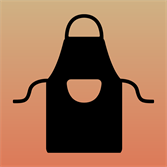
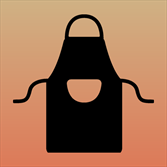
Popraw ikone instalacji PWA na iOS

diff --git a/index.html b/index.html
@@ -13,11 +13,11 @@
       content="Malina ceramik studio ceramiki - prosty obieg ceramiki od półki do odbioru."
     />
     <title>Malina Ceramik Studio Ceramiki</title>
-    <link rel="icon" href="assets/malina-app-icon-composed-512.png" type="image/png" />
-    <link rel="apple-touch-icon" href="apple-touch-icon.png" />
-    <link rel="apple-touch-icon-precomposed" href="apple-touch-icon.png" />
+    <link rel="icon" href="assets/malina-app-icon-full-512.png" type="image/png" />
+    <link rel="apple-touch-icon" sizes="180x180" href="apple-touch-icon-full-20260621.png" />
+    <link rel="apple-touch-icon-precomposed" sizes="180x180" href="apple-touch-icon-full-20260621.png" />
     <link rel="manifest" href="manifest.json" />
-    <link rel="stylesheet" href="styles.css?v=20260621-4" />
+    <link rel="stylesheet" href="styles.css?v=20260621-5" />
   </head>
   <body>
     <main class="login-screen" id="login-screen">
@@ -153,6 +153,6 @@
     <input id="journal-photo-input" type="file" accept="image/*" hidden />
     <input id="journal-photo-camera-input" type="file" accept="image/*" capture="environment" hidden />
 
-    <script type="module" src="app.js?v=20260621-4"></script>
+    <script type="module" src="app.js?v=20260621-5"></script>
   </body>
 </html>

diff --git a/sw.js b/sw.js
@@ -1,6 +1,6 @@
 importScripts("./firebase-config-sw.js");
 
-const CACHE = "malina-ceramik-demo-v47";
+const CACHE = "malina-ceramik-demo-v48";
 const ASSETS = [
   "./",
   "install.html",
@@ -20,9 +20,13 @@ const ASSETS = [
   "assets/malina-app-icon-maskable-v2.png",
   "assets/malina-app-icon-flat-512.png",
   "assets/malina-app-icon-maskable-flat-512.png",
+  "assets/malina-app-icon-full-512.png",
+  "assets/malina-app-icon-maskable-full-512.png",
   "assets/malina-app-icon-composed-2048.png",
   "assets/malina-app-icon-composed-512.png",
   "assets/malina-app-icon-composed-maskable-512.png",
+  "apple-touch-icon-full-20260621.png",
+  "assets/apple-touch-icon-malina-full-20260621.png",
   "assets/apple-touch-icon-malina-composed-20260620.png",
   "assets/apple-touch-icon-malina-20260620.png",
   "assets/apple-touch-icon-malina-flat-20260620.png",

diff --git a/install.html b/install.html
@@ -9,9 +9,9 @@
     <meta name="apple-mobile-web-app-status-bar-style" content="default" />
     <meta name="robots" content="noindex, nofollow" />
     <title>Malina Ceramik Studio Ceramiki</title>
-    <link rel="icon" href="assets/malina-app-icon-composed-512.png" type="image/png" />
-    <link rel="apple-touch-icon" href="apple-touch-icon.png" />
-    <link rel="apple-touch-icon-precomposed" href="apple-touch-icon.png" />
+    <link rel="icon" href="assets/malina-app-icon-full-512.png" type="image/png" />
+    <link rel="apple-touch-icon" sizes="180x180" href="apple-touch-icon-full-20260621.png" />
+    <link rel="apple-touch-icon-precomposed" sizes="180x180" href="apple-touch-icon-full-20260621.png" />
     <link rel="manifest" href="manifest.json" />
     <meta http-equiv="refresh" content="0; url=./?installed=ios-icon-v44" />
   </head>
